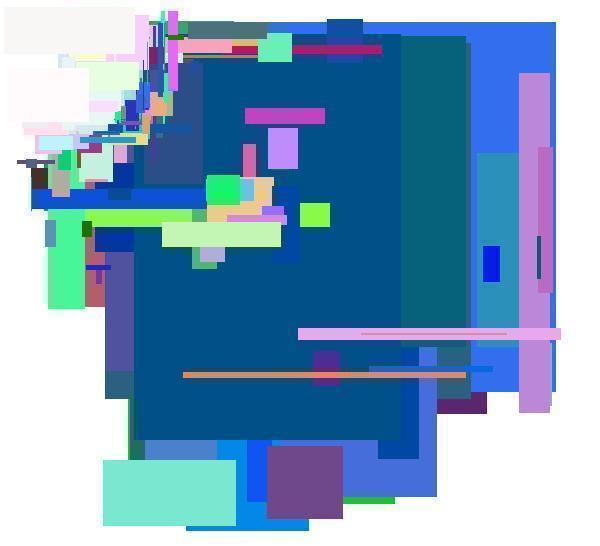
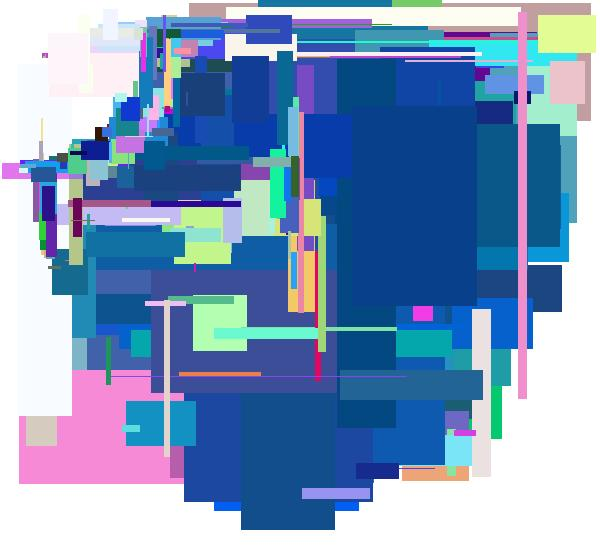
Add files via upload

diff --git a/mainwindow.cpp b/mainwindow.cpp
@@ -1,6 +1,8 @@
 #include "mainwindow.h"
 #include "ui_mainwindow.h"
 
+int getRandomNumber(int min, int max);
+
 MainWindow::MainWindow(QWidget *parent)
     : QMainWindow(parent)
     , ui(new Ui::MainWindow)
@@ -64,10 +66,10 @@ QRect MainWindow::createRandomRectangle() const{
     QVector<int> topLeft;//Координаты верхнего левого края
     QVector<int> bottomRight;//Координаты правого нижнего края
 
-    topLeft.push_back(randomWidth(generator));
-    topLeft.push_back(randomHeight(generator));
-    bottomRight.push_back(randomWidth(generator));
-    bottomRight.push_back(randomHeight(generator));
+    topLeft.push_back(getRandomNumber(0,width/quality));
+    topLeft.push_back(getRandomNumber(0,height/quality));
+    bottomRight.push_back(getRandomNumber(0,width/quality));
+    bottomRight.push_back(getRandomNumber(0,height/quality));
 
 
     if (topLeft[0] > bottomRight[0]){
@@ -90,7 +92,7 @@ QRect MainWindow::createRandomRectangle() const{
 void MainWindow::step(){
     auto rect = createRandomRectangle();
 
-    QColor color(randomColor(generator),randomColor(generator),randomColor(generator));
+    QColor color(getRandomNumber(0,255),getRandomNumber(0,255),getRandomNumber(0,255));
 
     if(isBetter(rect,color)){
         for(int y = rect.top();y!=rect.top()+rect.height();y++){
@@ -113,14 +115,20 @@ int MainWindow::getHeight() const{
 
 void MainWindow::on_start_clicked()
 {
-    randomWidth = std::uniform_int_distribution<int>(0, width/4);
-    randomHeight = std::uniform_int_distribution<int>(0, height/4);
-    randomColor = std::uniform_int_distribution<int>(0, 255);
+    srand(static_cast<unsigned int>(time(0)));
     fileName = QFileDialog::getOpenFileName(this, "Open File", QDir::currentPath(), "jpg-files (*.jpg)");//Открываем диалоговое окно для загрузки файла
     result.load(fileName);//Создаём изображение
-    for(int i=0;i<16000;i++){
-    step();
+    for(int j=1;j<=20;j++){
+        quality=j;
+        for(int i=0;i<10000;i++){
+            step();
+        }
     }
     result.save(fileName,"JPG",-1);
     QCoreApplication::quit();
+}
+
+int getRandomNumber(int min, int max){
+    static const double fraction = 1.0 / (static_cast<double>(RAND_MAX) + 1.0);
+    return static_cast<int>(rand() * fraction * (max - min + 1) + min);
 }

diff --git a/mainwindow.h b/mainwindow.h
@@ -28,7 +28,6 @@ public:
 
 private slots:
     void on_LoadFile_clicked();//Загрузка изображения
-
     void on_start_clicked();
 
 private:
@@ -38,12 +37,7 @@ private:
     QImage result;//Изображение, сгенерированное алгоритмом
     int width;//Ширина изображения
     int height;//Высота изображения
-
-
-    mutable std::mt19937 generator;//Генератор случайных чисел
-    mutable std::uniform_int_distribution<int> randomWidth;//Случайная ширина(в каком-то диапазоне)
-    mutable std::uniform_int_distribution<int> randomHeight;//Случайная высота(в каком-то диапазоне)
-    std::uniform_int_distribution<int> randomColor;//Случайный цвет(в каком-то диапазоне)
+    int quality;
 
     void draw();//Функция рисования
     bool isBetter(const QRect& rect,const QColor& color)const;//Получилось лучше?
